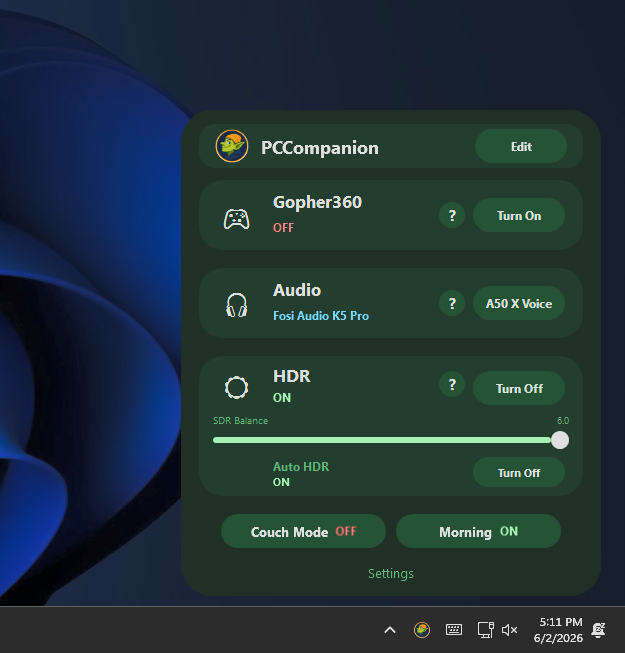
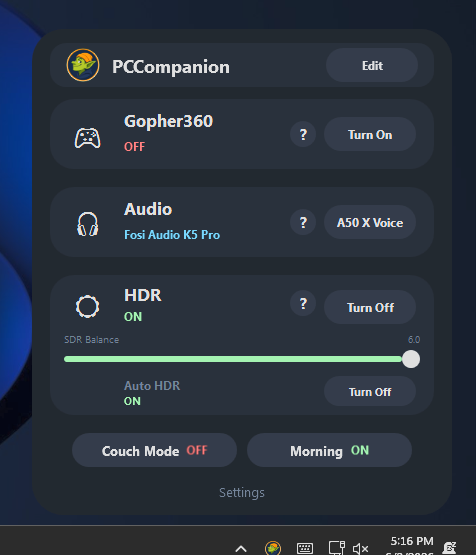
Use two dark-theme popups (with/without Prayer) as README hero

diff --git a/README.md b/README.md
@@ -13,7 +13,9 @@ to open a popup that anchors above the taskbar, with four feature cards plus two
 "scene" buttons — and an optional Stream Deck plugin to drive it all from your deck.
 
 <p align="center">
-  <img src="docs/screenshots/popup.png" alt="PC Companion tray popup" width="380">
+  <img src="docs/screenshots/popup.png" alt="PC Companion popup" width="44%">
+  &nbsp;
+  <img src="docs/screenshots/popup-prayer.png" alt="PC Companion popup with the Prayer card enabled" width="44%">
 </p>
 
 ## Features
